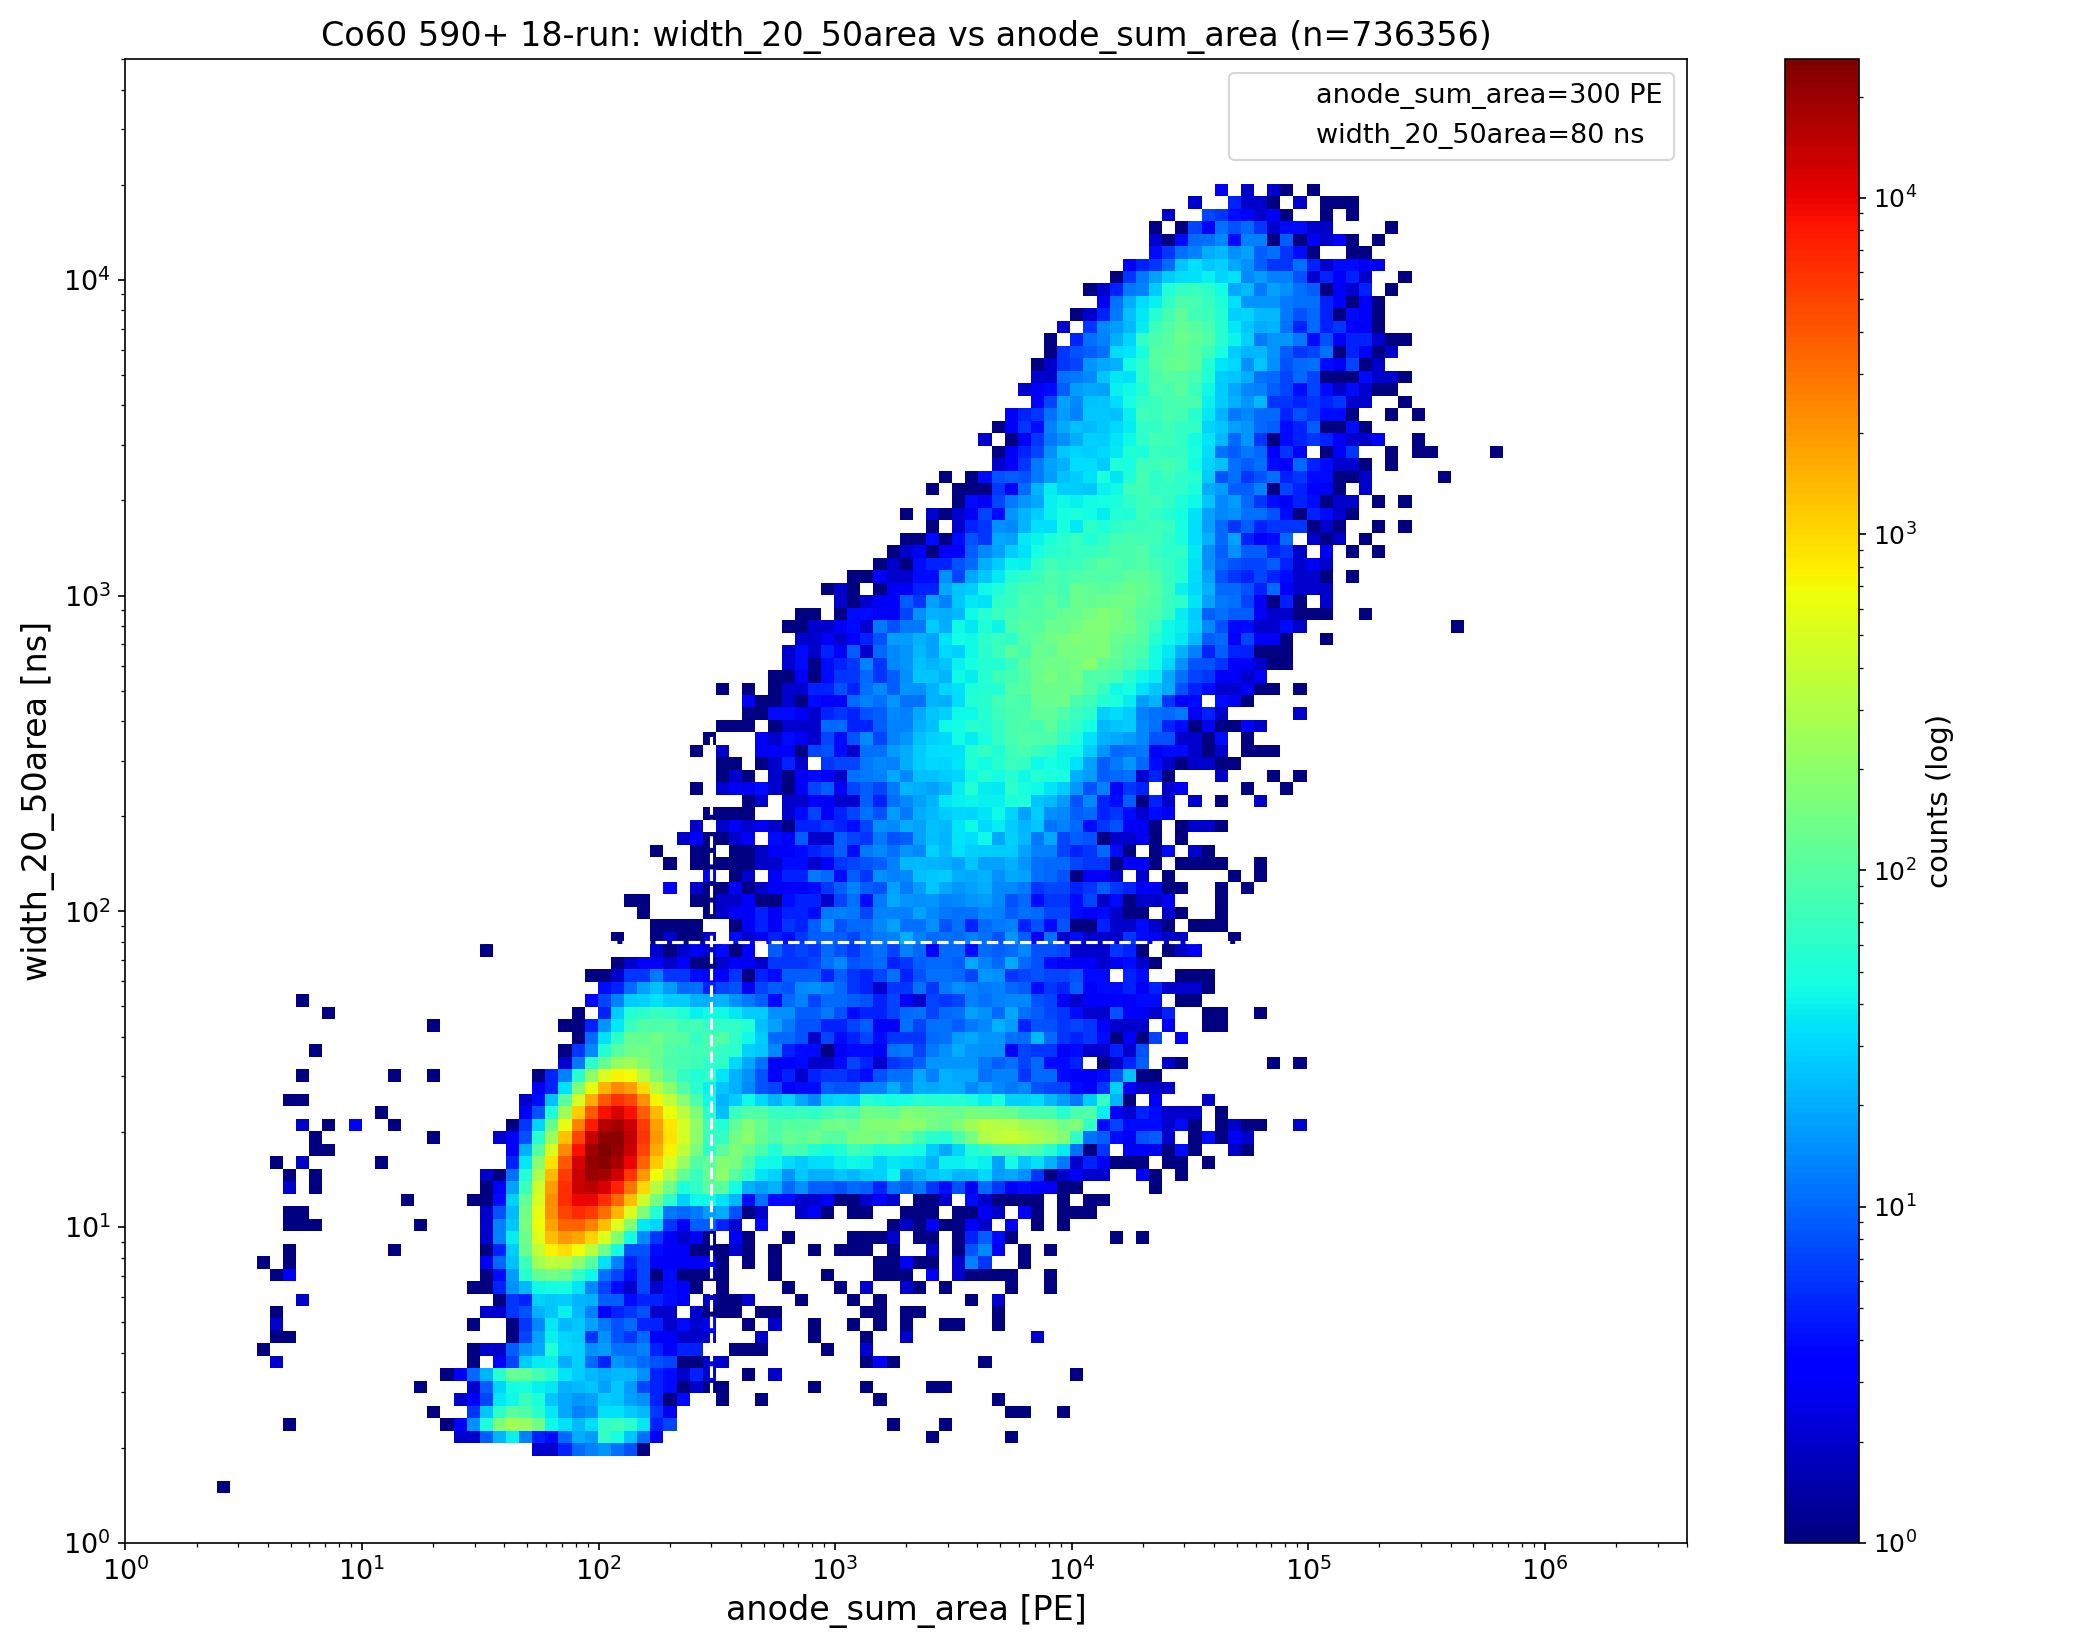
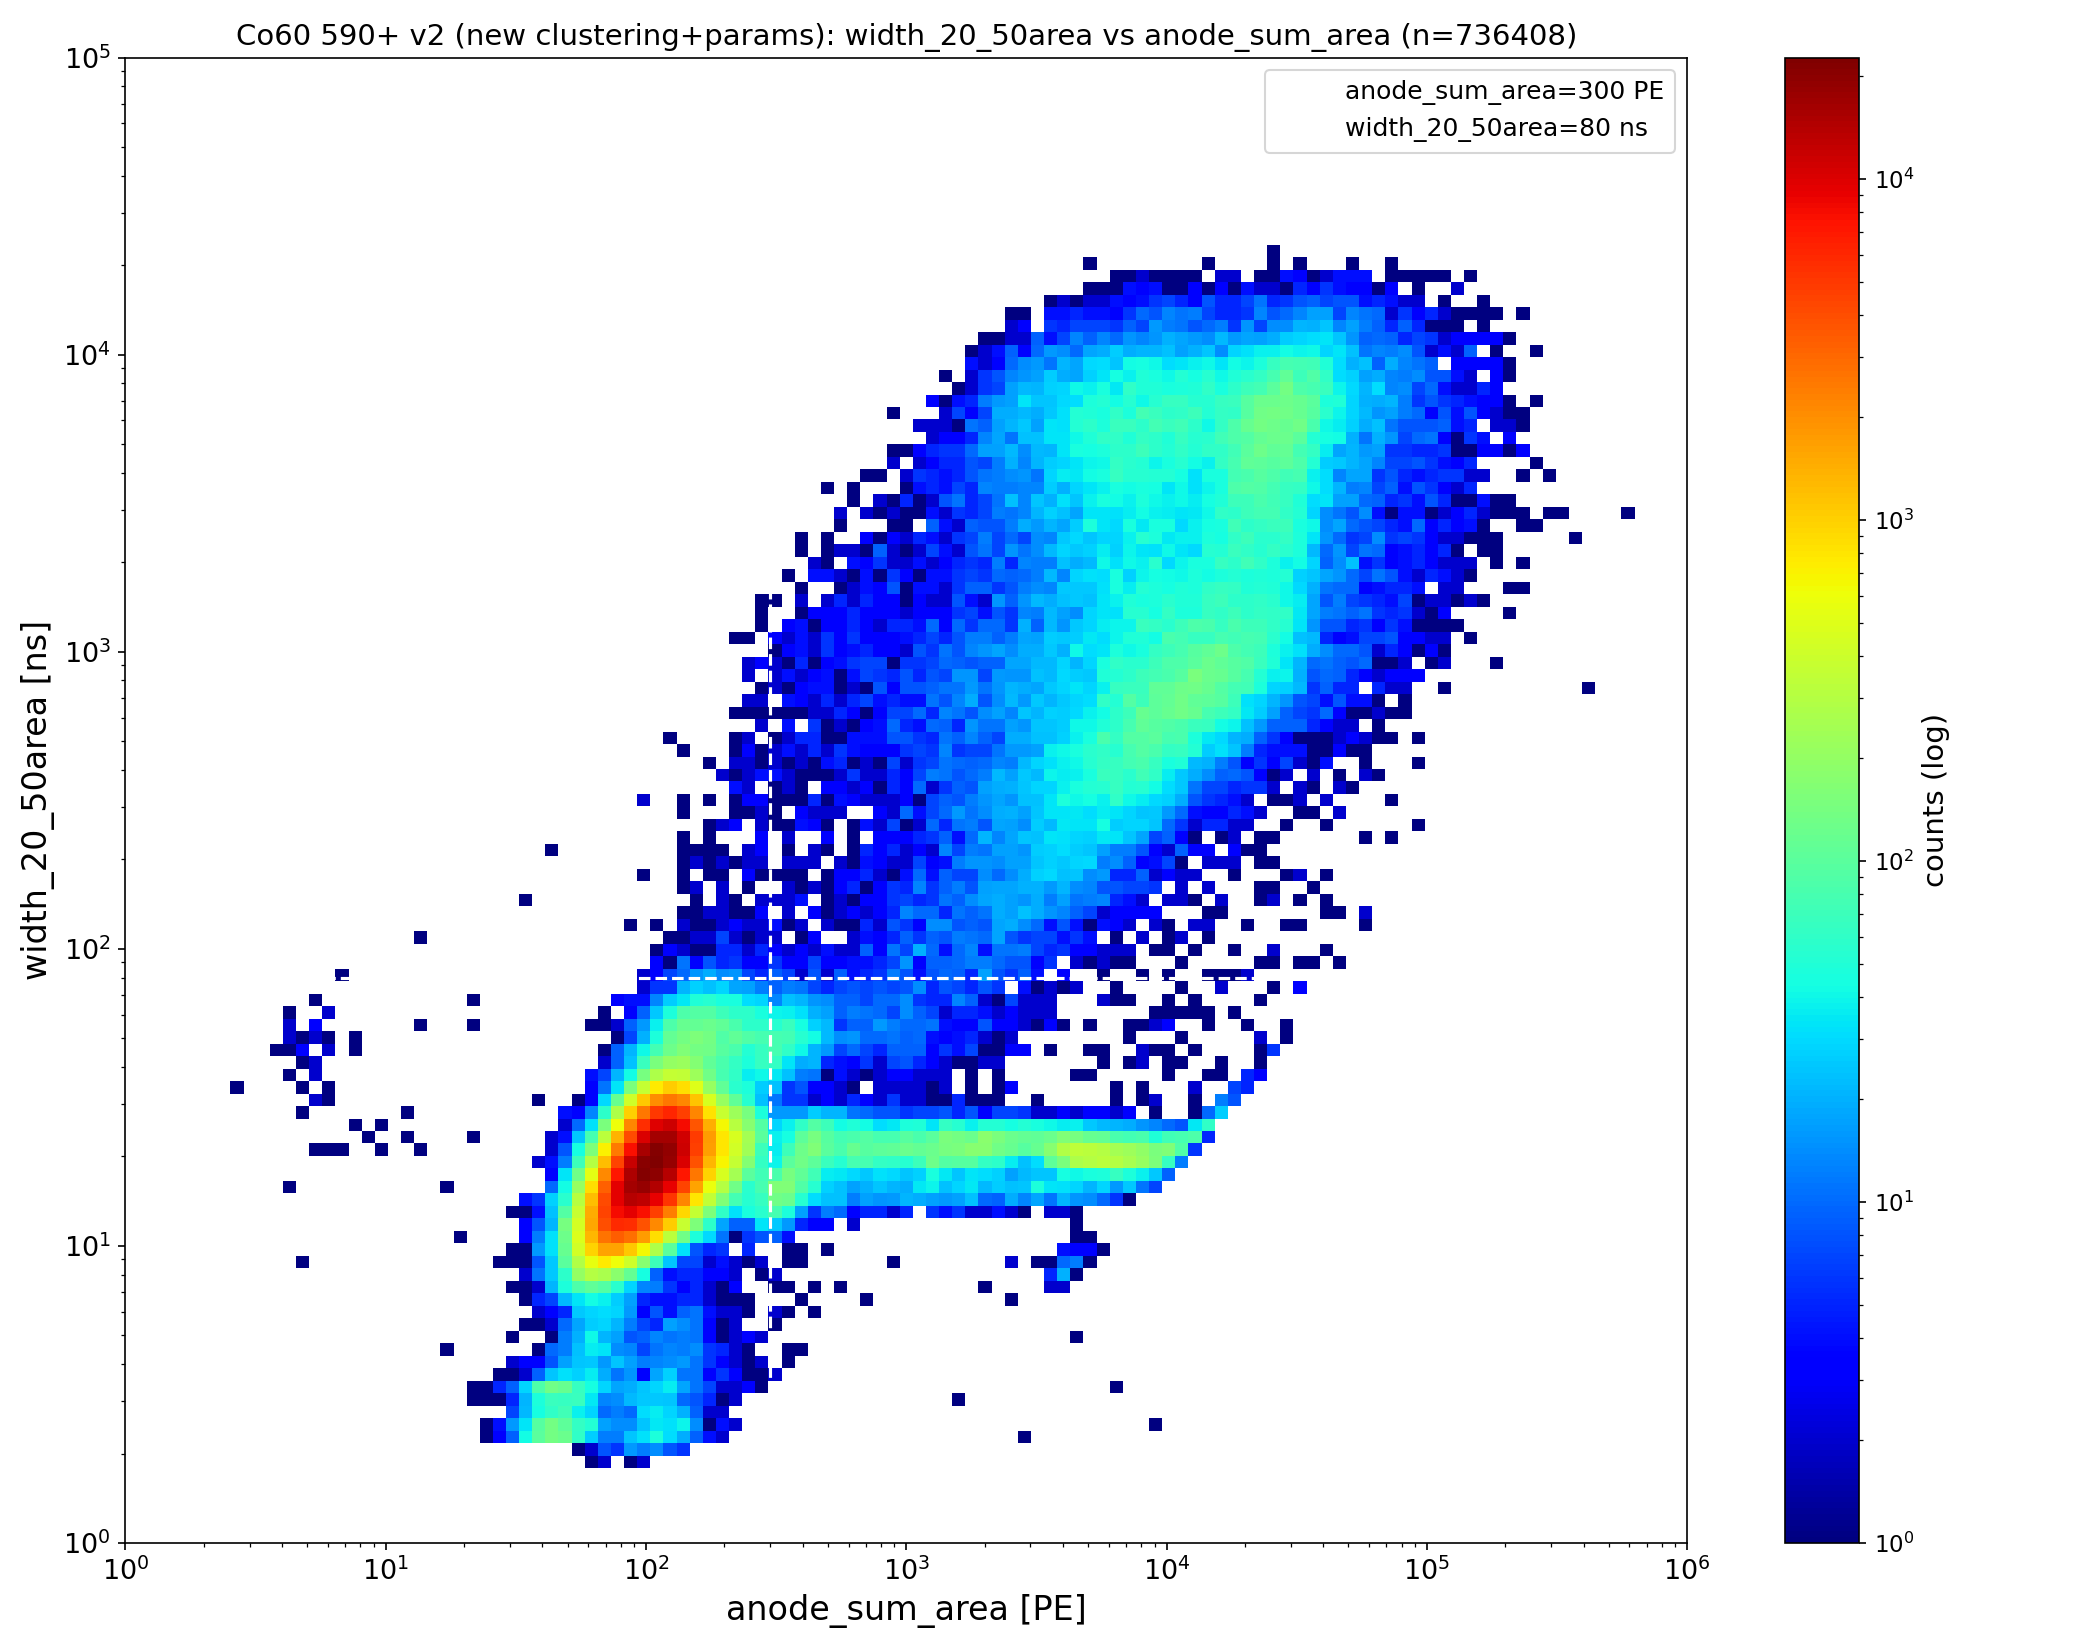
Update width_20_50area vs anode_sum_area 2D with v2 data (new clustering+params); long_wave_min_samples 5000

diff --git a/src/muon_analysis/config.py b/src/muon_analysis/config.py
@@ -72,7 +72,7 @@ _DEFAULTS: Dict[str, Any] = {
     },
     "signal_id": {
         # S1/S2-width based discrimination (applies to long waveforms only).
-        "long_wave_min_samples": 20000,
+        "long_wave_min_samples": 5000,
         "muon_s1": {
             "n_channels": 7,
             "s1_width_min_ns": 0.0,
